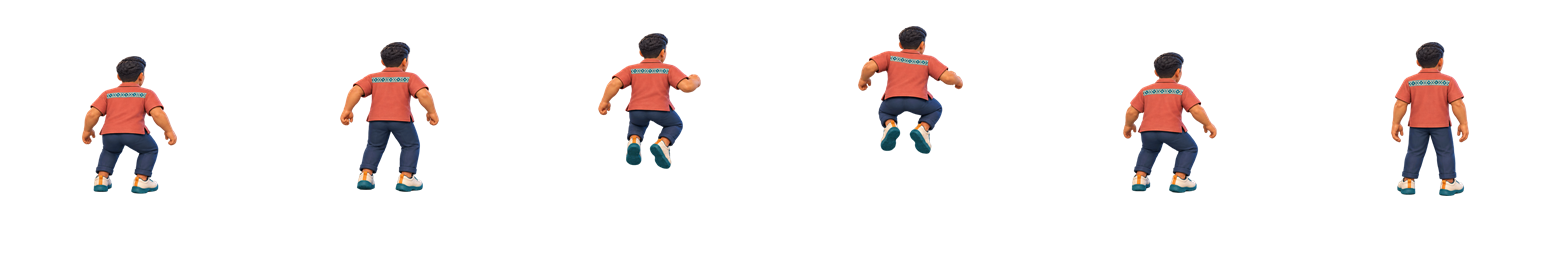
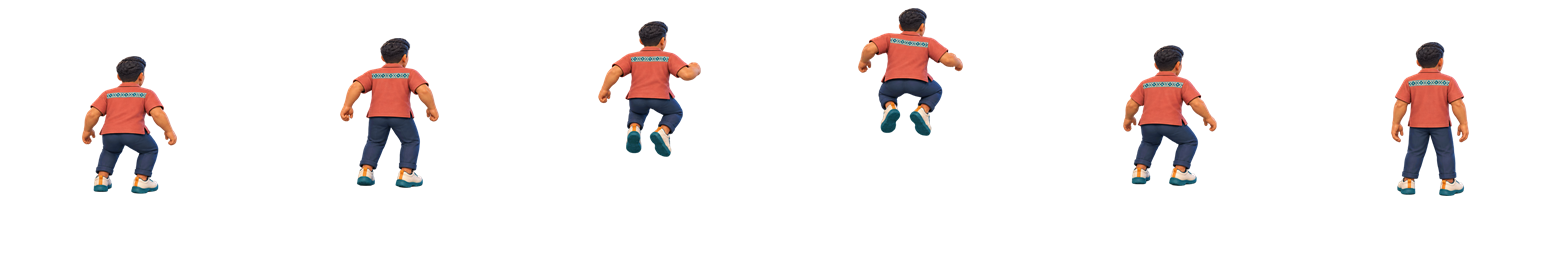
fix: enlarge Peter and strengthen jump slide poses

diff --git a/Peter_Run_Visual_Production/Peter_Adult_Image_v04_README.md b/Peter_Run_Visual_Production/Peter_Adult_Image_v04_README.md
@@ -18,6 +18,8 @@ The generated images retain Peter's mature Filipino adult identity, swept dark h
 
 The preparation script detects each complete transparent character figure as a connected component, removes accidental cross-cell fragments, normalizes it to a 256x256 frame, and maintains the existing `(128, 216)` ground pivot. It creates one padded atlas per clip plus a separate soft ground shadow.
 
+The integrated presentation uses a restrained `0.32` display scale. Jump frames add a controlled visual lift of up to 18 source pixels at the apex, while the middle slide frames compress vertically around the fixed foot anchor to make the duck clearly lower. Gameplay timing and action acceptance windows remain unchanged.
+
 ## Animation set
 
 | Clip | Key poses | Duration | Loop |
